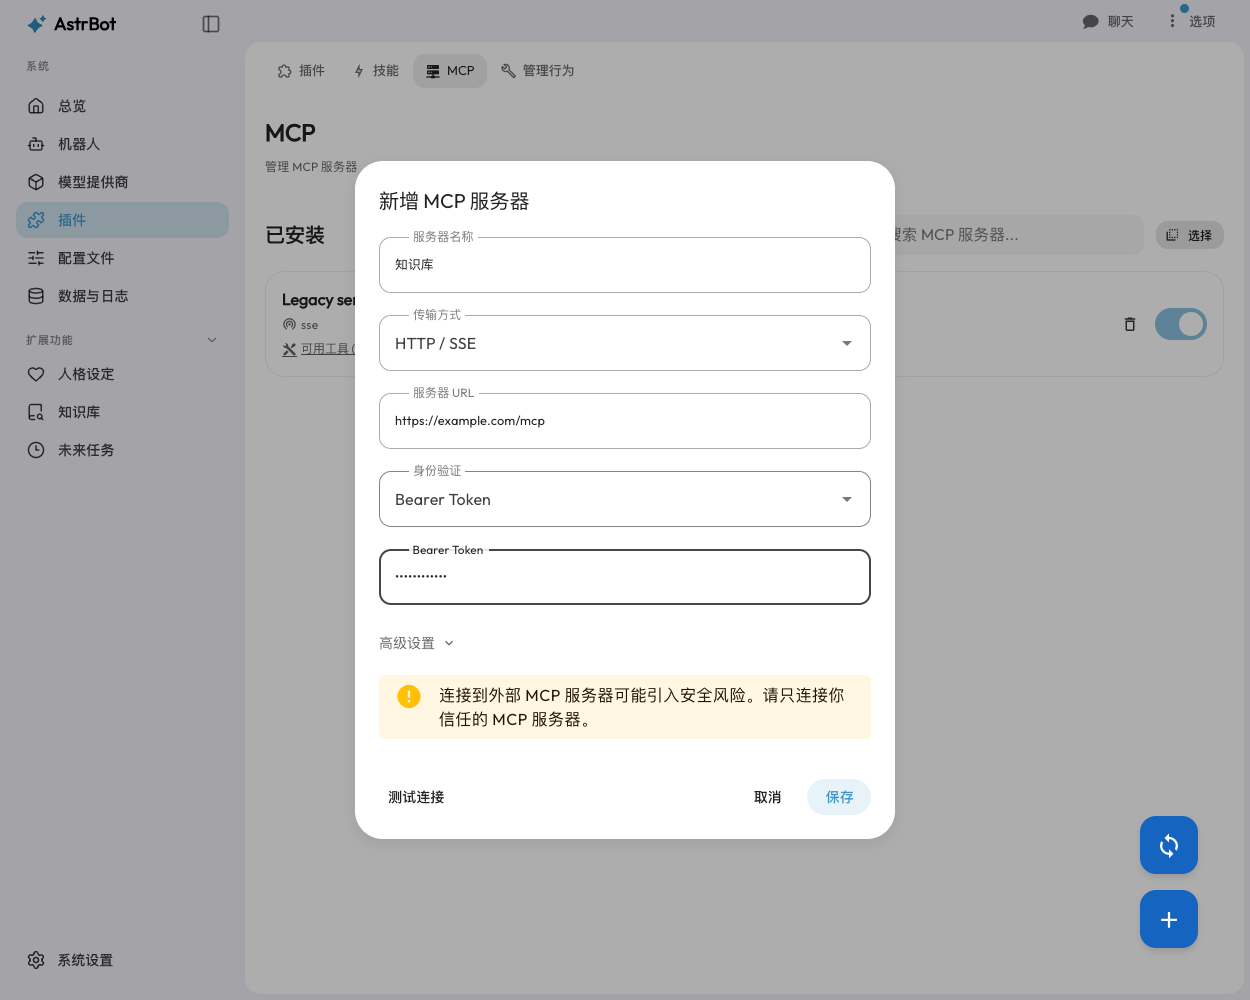
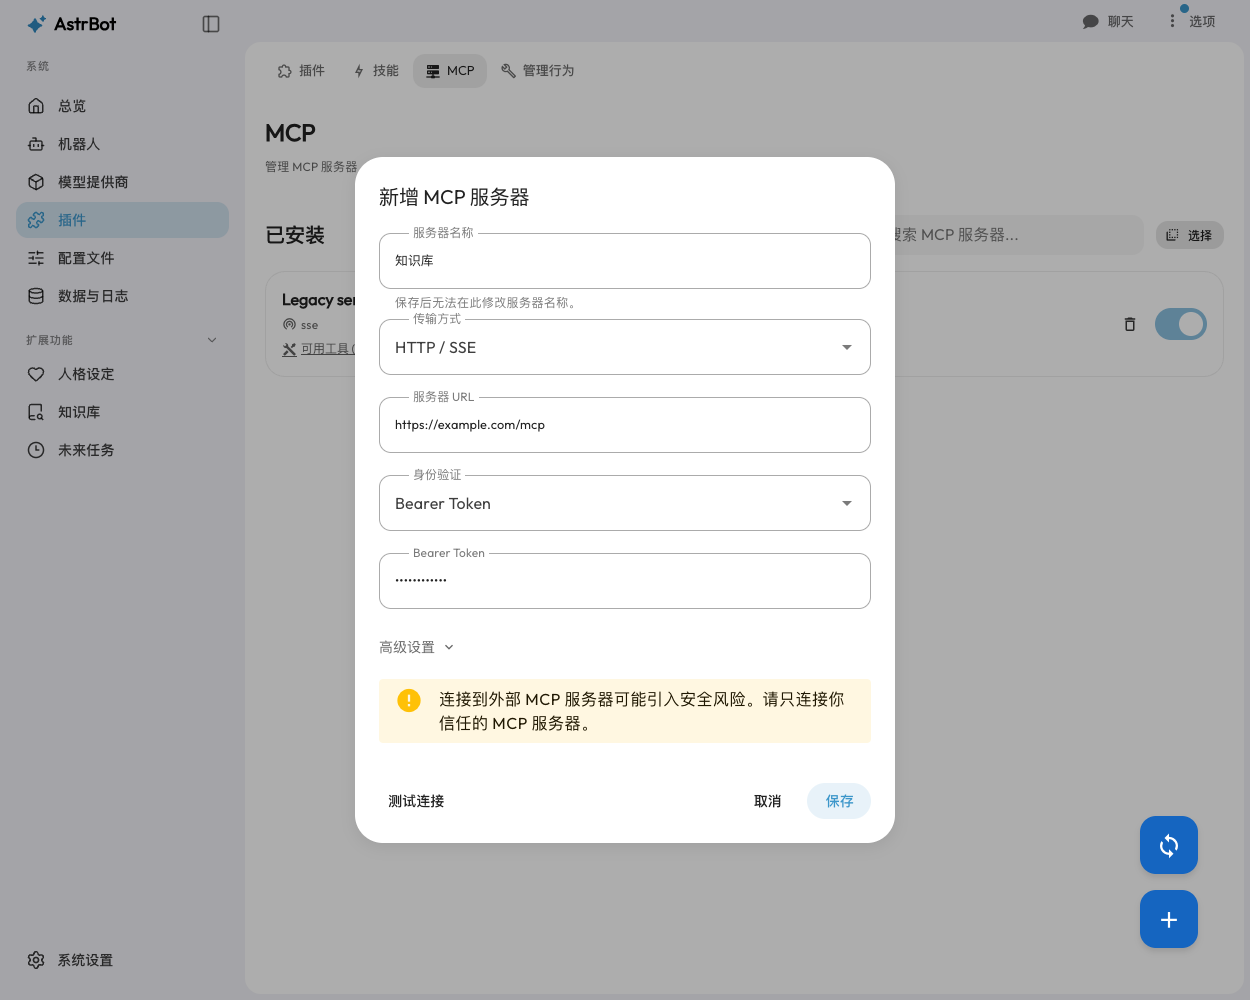
fix: lock MCP server names in the edit dialog

diff --git a/dashboard/src/components/extension/McpServerDialog.vue b/dashboard/src/components/extension/McpServerDialog.vue
@@ -8,7 +8,8 @@
       <v-card-text class="px-6 pt-5">
         <v-form id="mcp-server-form" ref="form" @submit.prevent="submit('save')">
           <v-text-field v-model="name" :label="field('fields.name')" variant="outlined"
-            :rules="[required('nameRequired')]" />
+            :disabled="!!server" :hint="server ? undefined : field('tips.nameLockedAfterSave')"
+            :persistent-hint="!server" :class="{ 'mb-2': !server }" :rules="[required('nameRequired')]" />
           <v-select v-model="transport" :label="field('fields.transport')" :items="transports"
             variant="outlined" />
           <template v-if="transport === 'stdio'">
@@ -50,14 +51,16 @@
               variant="outlined" :rules="[timeoutRule]" />
             <v-text-field v-if="transport !== 'stdio'" v-model="readTimeout" name="mcp-read-timeout"
               :label="field('fields.readTimeout')" type="number" variant="outlined" :rules="[timeoutRule]" />
-            <v-btn v-if="!showImport" variant="text" size="small" class="px-0" :ripple="false"
-              @click="showImport = true">
-              {{ field('buttons.importJson') }}
-            </v-btn>
-            <template v-else>
-              <v-textarea v-model="importText" :label="field('fields.config')" variant="outlined"
-                rows="3" :error-messages="importError" />
-              <v-btn variant="tonal" :ripple="false" @click="importConfig">{{ field('buttons.importJson') }}</v-btn>
+            <template v-if="!server">
+              <v-btn v-if="!showImport" variant="text" size="small" class="px-0" :ripple="false"
+                @click="showImport = true">
+                {{ field('buttons.importJson') }}
+              </v-btn>
+              <template v-else>
+                <v-textarea v-model="importText" :label="field('fields.config')" variant="outlined"
+                  rows="3" :error-messages="importError" />
+                <v-btn variant="tonal" :ripple="false" @click="importConfig">{{ field('buttons.importJson') }}</v-btn>
+              </template>
             </template>
           </div>
         </v-form>
@@ -229,7 +232,7 @@ async function submit(action) {
     }
     if (readTimeout.value !== '') config.sse_read_timeout = Number(readTimeout.value);
   }
-  emit(action, name.value.trim(), config);
+  emit(action, props.server?.name ?? name.value.trim(), config);
 }
 </script>
 

diff --git a/dashboard/src/components/extension/McpServersSection.vue b/dashboard/src/components/extension/McpServersSection.vue
@@ -522,10 +522,10 @@ export default {
       this.serverTestMessage = null;
       try {
         const server = this.editingServer;
-        const data = { ...config, name, active: server?.active ?? true };
+        const data = { ...config, active: server?.active ?? true };
         const { data: response } = server
           ? await mcpApi.update(server.name, data)
-          : await mcpApi.create(data);
+          : await mcpApi.create({ ...data, name });
         if (response.status === 'error') {
           this.serverTestMessage = { type: 'error', text: response.message };
           return;

diff --git a/dashboard/src/api/v1.ts b/dashboard/src/api/v1.ts
@@ -1170,7 +1170,7 @@ export const mcpApi = {
   create(config: McpServerConfig) {
     return typed<OpenConfig>(openApiV1.createMcpServer({ body: config }));
   },
-  update(serverName: string, config: McpServerConfig) {
+  update(serverName: string, config: DynamicConfig) {
     return typed<OpenConfig>(
       openApiV1.updateMcpServerByName({
         body: { server_name: serverName, config },

diff --git a/docs/en/use/mcp.md b/docs/en/use/mcp.md
@@ -53,7 +53,7 @@ If AstrBot cannot find a newly installed command, restart AstrBot to pick up env
 ## Add Your First MCP Server {#installing-mcp-servers}
 
 1. Open `Extensions → MCP Servers` and click the **+** button at the bottom right.
-2. Enter a recognizable **Server Name**, such as `arxiv`.
+2. Enter a recognizable **Server Name**, such as `arxiv`. Once saved, the name field is disabled in the edit dialog.
 3. Choose **stdio** or **HTTP / SSE**. For **stdio**, enter the executable, add each argument separately, and enter environment variables as one `KEY=value` pair per line. For **HTTP / SSE**, enter the server URL and choose **None** or **Bearer Token**. Enter just the token value. AstrBot detects the HTTP transport for new connections. Additional headers and timeouts are under **Advanced Settings**.
 4. Click **Test Connection** to check connectivity and discover tools.
 5. Click **Save**. When adding a server, AstrBot checks the connection again and connects it. The list should then show **Connected** and its available tools.
@@ -62,7 +62,7 @@ Connecting to external MCP servers may pose security risks. Only connect to MCP 
 
 ![The Add MCP Server configuration dialog](./images/mcp-config-en.png)
 
-Open **Advanced Settings → Import JSON** to fill the form from an existing configuration. It accepts a single server object or the first server in an `mcpServers` wrapper.
+When adding a server, open **Advanced Settings → Import JSON** to fill the form from an existing configuration. It accepts a single server object or the first server in an `mcpServers` wrapper.
 
 ### Remote Streamable HTTP Example
 
@@ -129,7 +129,7 @@ After connecting, make sure the tools are available to the current conversation:
 
 The default persona uses all available capabilities. Create or edit a custom persona to restrict the selection. Selecting a globally disabled tool in a persona does not enable it again.
 
-AstrBot registers tools as `mcp__<server>__<tool>`, for example `mcp__github__list_issues`. Chinese server names use a stable six-letter namespace derived from the server name. After renaming a server, update any tool selections or permissions that refer to its old tool names. If an older persona selection matches tools from multiple servers, select the intended tool again in that persona.
+AstrBot registers tools as `mcp__<server>__<tool>`, for example `mcp__github__list_issues`. Chinese server names use a stable six-letter namespace derived from the server name. If you rename a server directly in its configuration file, update any tool selections or permissions that refer to its old tool names. If an older persona selection matches tools from multiple servers, select the intended tool again in that persona.
 
 **Connected means the service is reachable; it does not guarantee the model will call a tool.** Tool use depends on the model, persona, task, and tool descriptions. External tools such as MCP searches do not require Computer Use. Configure an [execution environment and permissions](/en/use/astrbot-agent-sandbox) only when AstrBot itself needs to execute code or access files.
 

diff --git a/docs/zh/use/mcp.md b/docs/zh/use/mcp.md
@@ -53,7 +53,7 @@ docker exec astrbot python -m pip install uv
 ## 添加第一个 MCP 服务器 {#安装-mcp-服务器}
 
 1. 打开 `插件 → MCP`，点击右下角的 **+**（新增服务器）。
-2. 填写便于识别的**服务器名称**，例如 `arxiv`。
+2. 填写便于识别的**服务器名称**，例如 `arxiv`。保存后，编辑对话框中的名称输入框会禁用。
 3. 选择 **stdio** 或 **HTTP / SSE**。使用 **stdio** 时，填写启动命令，逐项添加参数，环境变量按每行一组 `KEY=value` 填写。使用 **HTTP / SSE** 时，填写服务器 URL，并选择**无**或 **Bearer Token**。选择后者时直接填写令牌值。AstrBot 会探测新连接使用的 HTTP 传输协议。额外请求头和超时可在**高级设置**中配置。
 4. 点击**测试连接**，确认能连接并获取工具。
 5. 点击**保存**。新增服务器时，AstrBot 会再次检查连接并连接服务器；返回列表后应显示**已连接**和可用工具。
@@ -62,7 +62,7 @@ docker exec astrbot python -m pip install uv
 
 ![新增 MCP 服务器的配置对话框](./images/mcp-config-zh.png)
 
-有现成的配置时，打开**高级设置 → 导入 JSON**填充表单。支持单个服务器配置，也支持导入 `mcpServers` 外层对象中的第一个服务器。
+新增服务器时，可以打开**高级设置 → 导入 JSON**，用现成的配置填充表单。支持单个服务器配置，也支持导入 `mcpServers` 外层对象中的第一个服务器。
 
 ### 远程 Streamable HTTP 示例
 
@@ -129,7 +129,7 @@ docker exec astrbot python -m pip install uv
 
 默认人格使用全部可用能力；需要限制工具范围时，请创建或编辑自定义人格。如果工具已在全局管理中停用，仅在人格中选择它不会重新启用工具。
 
-AstrBot 将工具注册为 `mcp__<server>__<tool>`，例如 `mcp__github__list_issues`。中文服务器名称会生成稳定的六字母命名空间。服务器改名后，请更新引用旧工具名的工具选择和权限配置。如果旧人格选中的工具名同时匹配多个服务器，请在人格中重新选择对应的工具。
+AstrBot 将工具注册为 `mcp__<server>__<tool>`，例如 `mcp__github__list_issues`。中文服务器名称会生成稳定的六字母命名空间。如果直接在配置文件中改了服务器名，请更新引用旧工具名的工具选择和权限配置。如果旧人格选中的工具名同时匹配多个服务器，请在人格中重新选择对应的工具。
 
 **已连接只代表服务可达，不代表模型一定会调用工具。** 是否调用取决于模型的工具调用能力、当前人格、用户任务和工具说明。MCP 查询等外部工具不要求你开启「使用电脑能力」；只有需要 AstrBot 自己执行代码或操作文件时，才需要配置[运行环境和权限](/use/astrbot-agent-sandbox)。
 
